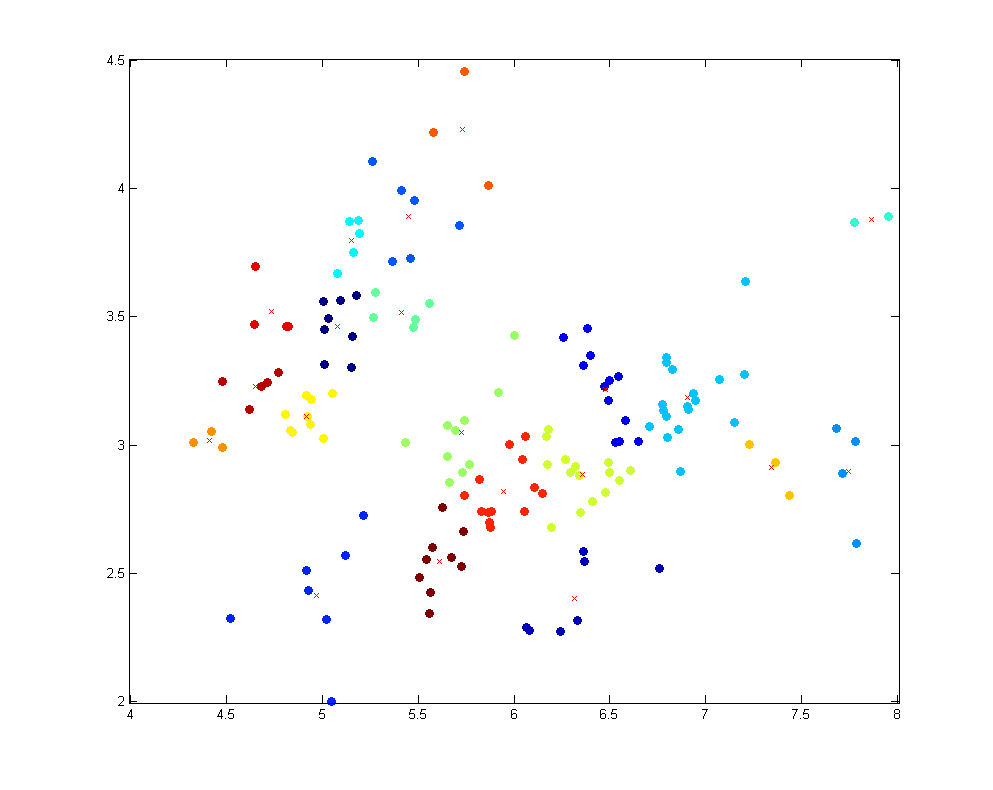
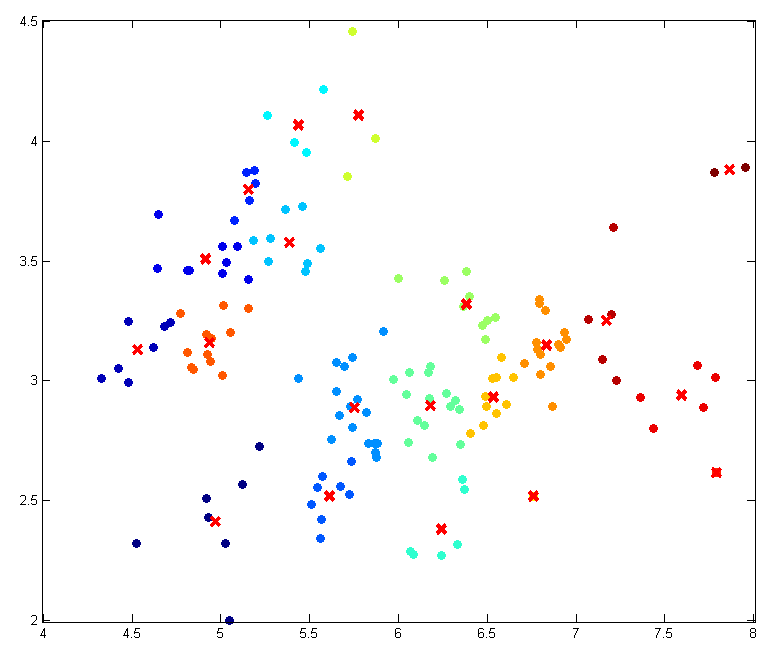
finished writing up prob 1 A and B

diff --git a/Homework5/HW5/HW5_solution.tex b/Homework5/HW5/HW5_solution.tex
@@ -75,9 +75,9 @@ The data does not look very clustered. Here is the plot of the raw data:
 
 \subsection*{Part b}
 
-I tried a few different initializations. I tried the 3 different ones available in the kmeans function as well as my own initialization points. For $k=5$, I arranged 5 points in an X-shape in the $x_1,x_2$ space. For $k=20$, I did two different initial arrangements: a $4x5$ grid and a $5x4$ grid in the $x_1,x_2$ space. For $k=5$ the lowest score came from my initialization. \\
+I tried a few different initializations. I tried the 3 different ones available in the kmeans function as well as my own initialization points. For $k=5$, I arranged 5 points in an X-shape in the $x_1,x_2$ space. For $k=20$, I did two different initial arrangements: a $4x5$ grid and a $5x4$ grid in the $x_1,x_2$ space. For $k=5$ the lowest score came from my initialization. For $k=20$ the lowest score also came from my initialization, specifically the $5x4$ initialization, although the $4x5$ grid had nearly the same score. \\
 \\
-Here is the 5-means clustering
+Here is the best 5-means clustering I was able to achieve
 \begin{figure}[h]
 \centering
 \includegraphics[width=6 in]{prob1PartB_1.png}
@@ -86,14 +86,17 @@ Here is the 5-means clustering
 
 \newpage
 
-Here are the clusters for $k=20$
+Here is the best 20-means clustering I was able to achieve.
 \begin{figure}[h]
 \centering
 \includegraphics[width=6 in]{prob1PartB_2.png}
-\caption{$k=20$ clustering with marked cluster centers}
+\caption{$k=20$ clustering with x marks for cluster centers}
 \end{figure}
 
-%\lstinputlisting[firstline=1, lastline=49]{prob1.m}
+\newpage
+
+Here is the code for Part A and B.
+\lstinputlisting[firstline=1, lastline=93]{prob1.m}
 
 
 

diff --git a/Homework5/HW5/prob1.m b/Homework5/HW5/prob1.m
@@ -11,8 +11,10 @@ plot(X(:,1),X(:,2),'ro')
 %%
 
 %Part B
-k=5;
-%k=20;
+
+%change this depending on whether we are doing k=5 or k=20
+%k=5;
+k=20;
 
 minX1 = min(X(:,1)); 
 minX2 = min(X(:,2));
@@ -80,6 +82,10 @@ end
 if(k==5)
    z = z4;
    c = c4;
+end
+if(k==20)
+   z = z6;
+   c = c6;
 end
 figure
 plotClassify2D([],X,z)
